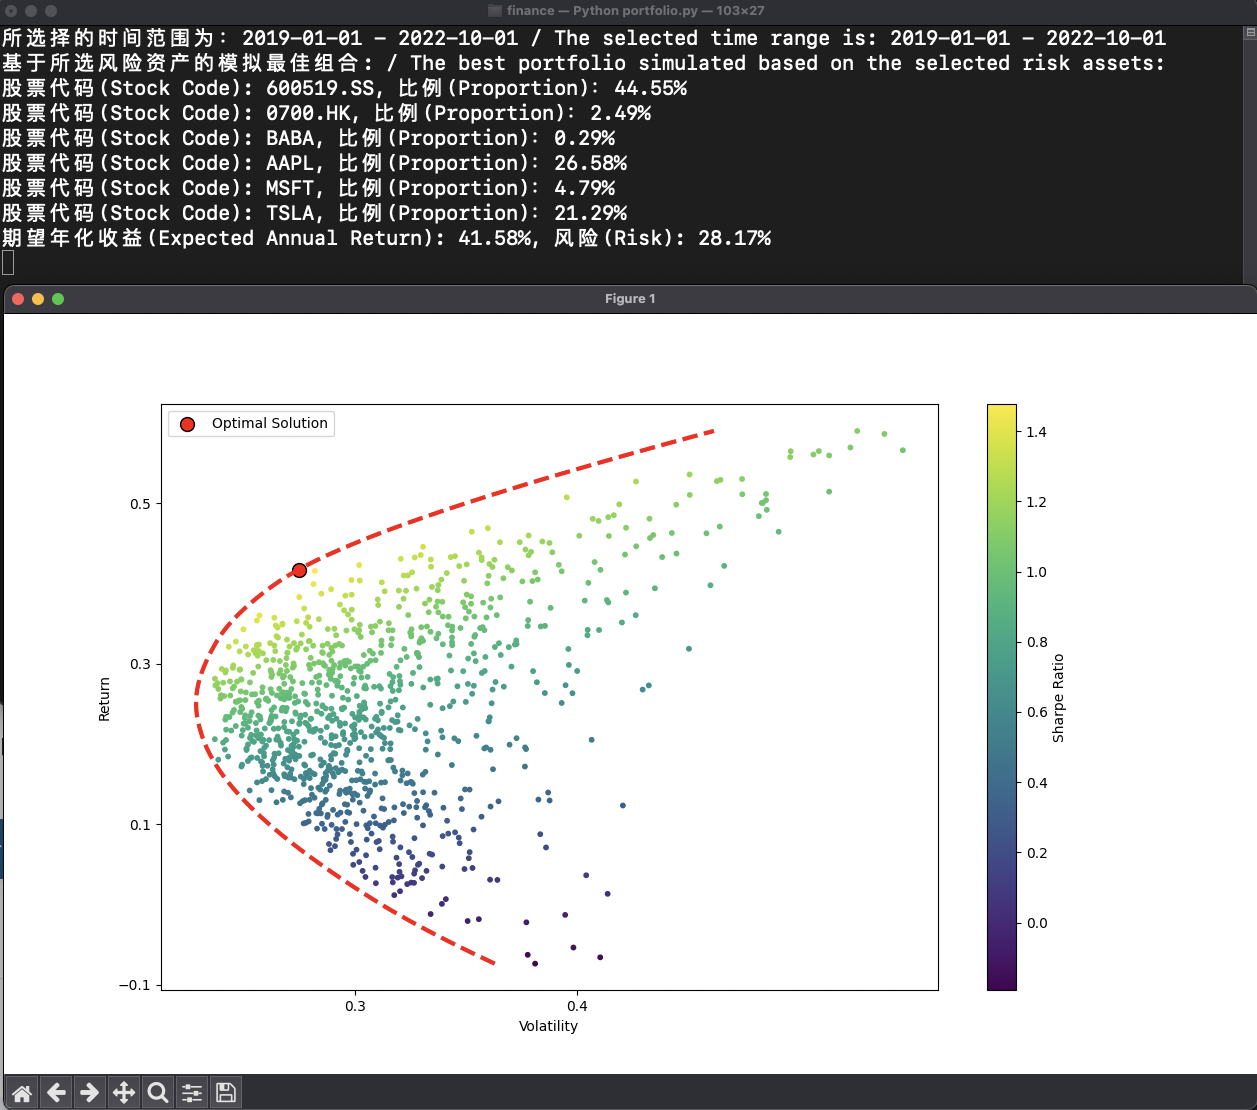
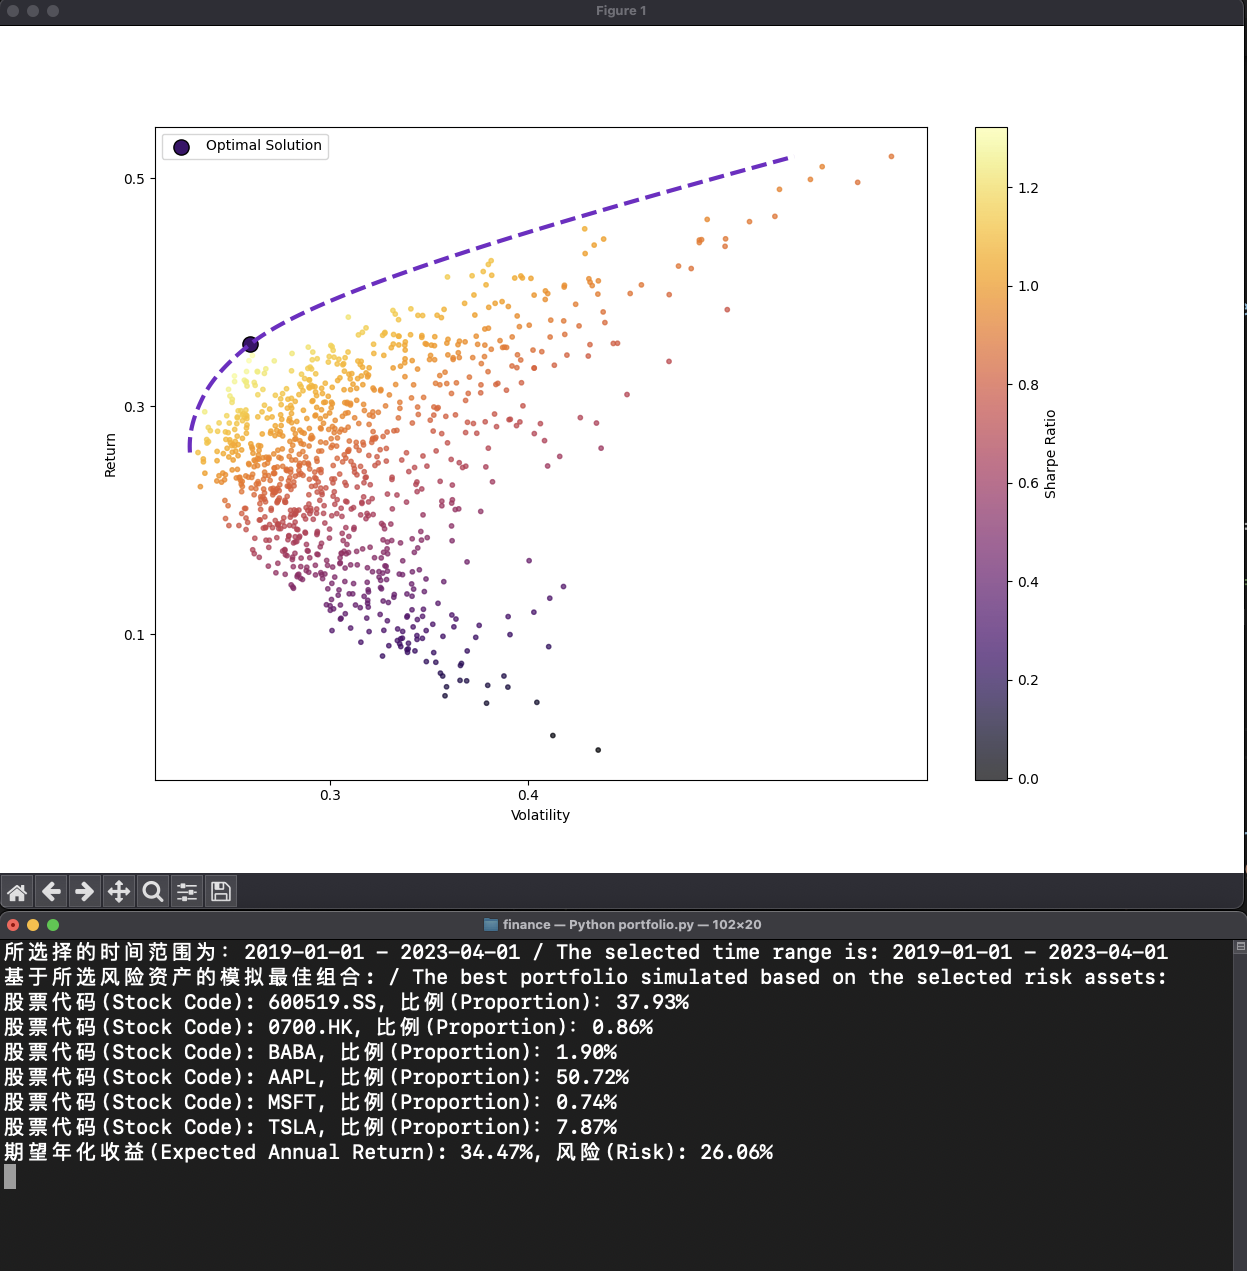
update the frontier line

diff --git a/portfolio.py b/portfolio.py
@@ -4,6 +4,8 @@ import numpy as np
 from scipy.optimize import minimize
 import matplotlib.pyplot as plt
 import warnings
+from matplotlib import style
+
 warnings.filterwarnings("ignore")
 
 
@@ -56,16 +58,6 @@ class Portfolio:
           # 计算夏普比率 / Calculate Sharpe Ratio
           self.sharpe_arr[x] = self.ret_arr[x]/ self.vol_arr[x]
 
-      self.frontier_x = []
-      self.frontier_y = np.linspace(self.ret_arr.min(), self.ret_arr.max(), 100)
-
-      for possible_return in self.frontier_y:
-        cons = ({'type':'eq','fun': self.check_sum}, {'type':'eq','fun':lambda w : self.get_ret_vol_sr(w)[0]-possible_return})
-        init_guess = np.ones(self.length) / (self.length)
-        bounds = ((0,1),)*(self.length)
-        self.result = minimize(self.minimize_volatility, init_guess, method='SLSQP', bounds=bounds, constraints=cons)
-        self.frontier_x.append(self.result['fun'])
-
       # Find the optimal weights with the highest Sharpe ratio on the efficient frontier
       cons = ({'type': 'eq', 'fun': self.check_sum})
       bounds = ((0, 1),) * (self.length)
@@ -75,21 +67,36 @@ class Portfolio:
       self.optimal_weights = result_optimal.x
       self.optimal_ret, self.optimal_vol, _ = self.get_ret_vol_sr(self.optimal_weights)
 
-  def draw(self, line=True):
-    plt.figure(figsize=(15,8))
-    plt.scatter(self.vol_arr, self.ret_arr, c=self.sharpe_arr, cmap='viridis', s=10)
-    plt.colorbar(label='Sharpe Ratio')
-    plt.xlabel('Volatility')
-    plt.ylabel('Return')
-    plt.xticks(np.arange(0, 0.5, step=0.1))
-    plt.yticks(np.arange(-0.1, 0.6, step=0.2))
-    if(line):
-      plt.plot(self.frontier_x, self.frontier_y, 'r--', linewidth=3)
+      self.frontier_x = []
+      min_vol_index = np.argmin(self.vol_arr)
+      min_vol_ret = self.ret_arr[min_vol_index]
+      self.frontier_y = np.linspace(min_vol_ret, self.ret_arr.max(), 100)
 
-    # Plot the red dot on the optimal position on the efficient frontier
-    plt.scatter(self.optimal_vol, self.optimal_ret, c='red', marker='o', s=100, edgecolors='black', label='Optimal Solution')
-    plt.legend()
-    plt.show()
+      for possible_return in self.frontier_y:
+          cons = ({'type':'eq','fun': self.check_sum}, {'type':'eq','fun':lambda w : self.get_ret_vol_sr(w)[0]-possible_return})
+          init_guess = np.ones(self.length) / (self.length)
+          bounds = ((0,1),)*(self.length)
+          self.result = minimize(self.minimize_volatility, init_guess, method='SLSQP', bounds=bounds, constraints=cons)
+          self.frontier_x.append(self.result['fun'])
+
+
+
+  def draw(self, line=True):
+      style.use('seaborn-bright')
+      plt.figure(figsize=(15,8))
+      plt.scatter(self.vol_arr, self.ret_arr, c=self.sharpe_arr, cmap='inferno', s=10, alpha=0.7)
+      plt.colorbar(label='Sharpe Ratio')
+      plt.xlabel('Volatility')
+      plt.ylabel('Return')
+      plt.xticks(np.arange(0, 0.5, step=0.1))
+      plt.yticks(np.arange(-0.1, 0.6, step=0.2))
+      if(line):
+          plt.plot(self.frontier_x, self.frontier_y, color="#732AC6", linestyle='--',  linewidth=3)
+
+      # Plot the red dot on the optimal position on the efficient frontier
+      plt.scatter(self.optimal_vol, self.optimal_ret, c='#3C136B', marker='o', s=120, edgecolors='black', label='Optimal Solution')
+      plt.legend()
+      plt.show()
 
 
   def report(self):
@@ -125,7 +132,7 @@ class Portfolio:
 if __name__ == "__main__":
     # 数据起始日期 / Data start date
     start_date = "2019-01-01"
-    end_date = "2022-10-01"
+    end_date = "2023-04-01"
     # 选择需要哪些资产的数据 / Choose which assets to use
     data_array = ["600519.SS", "0700.HK","BABA", "AAPL", "MSFT", "TSLA"]
     # data_array = ["BABA", "AAPL", "MSFT", "TSLA"]
